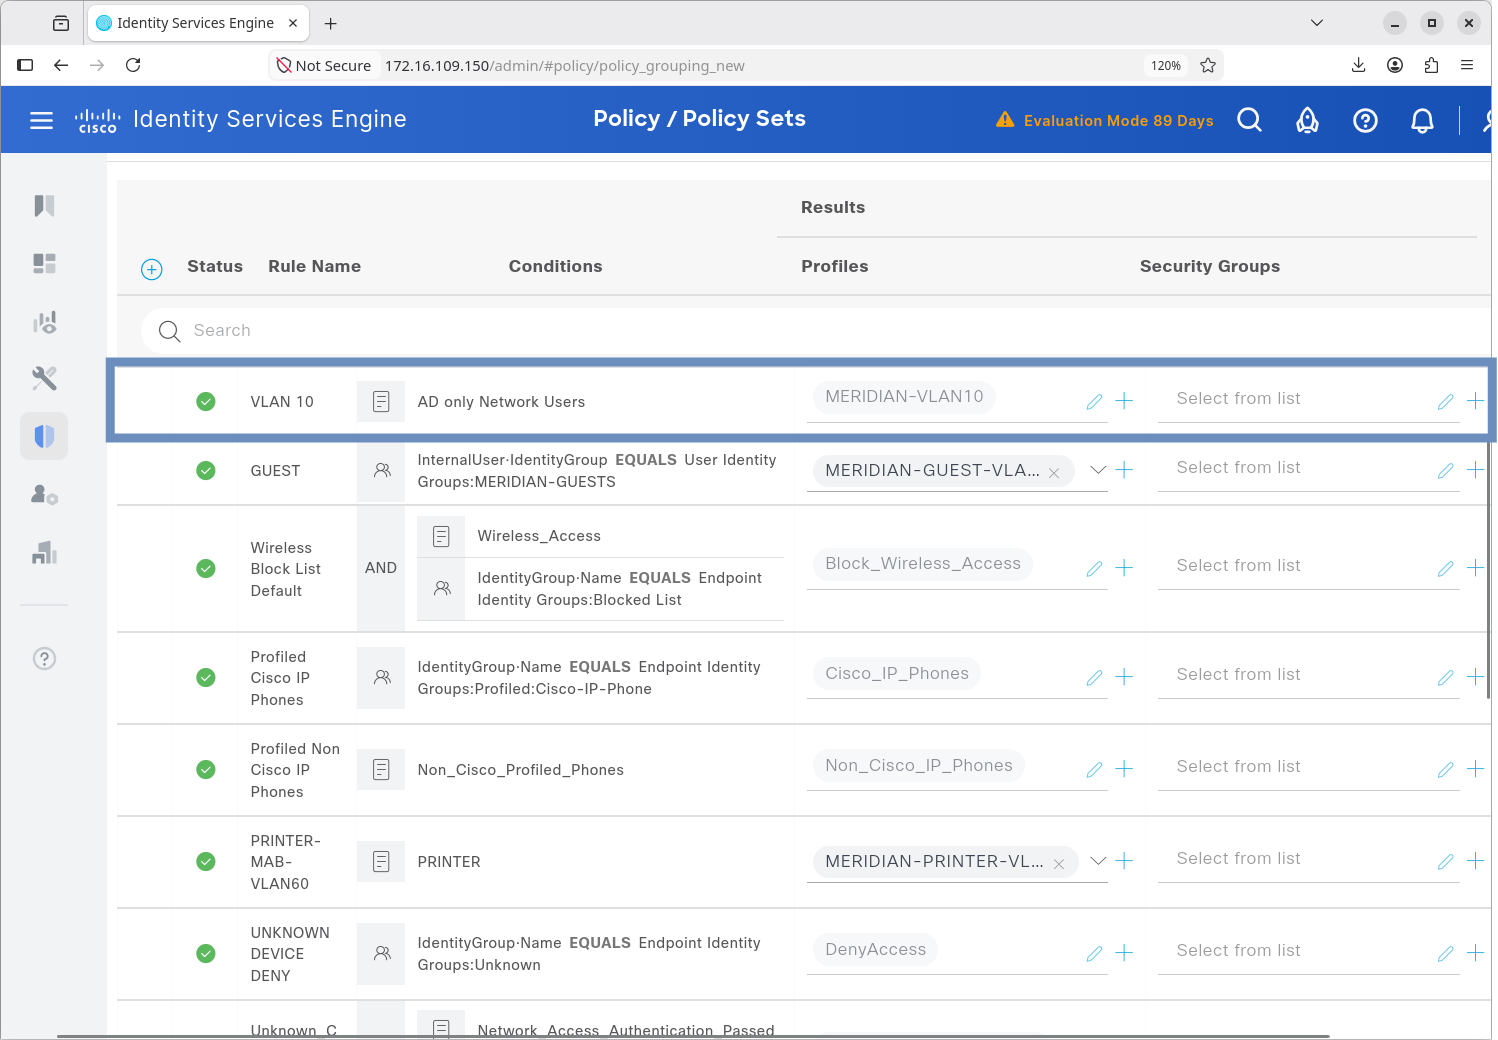
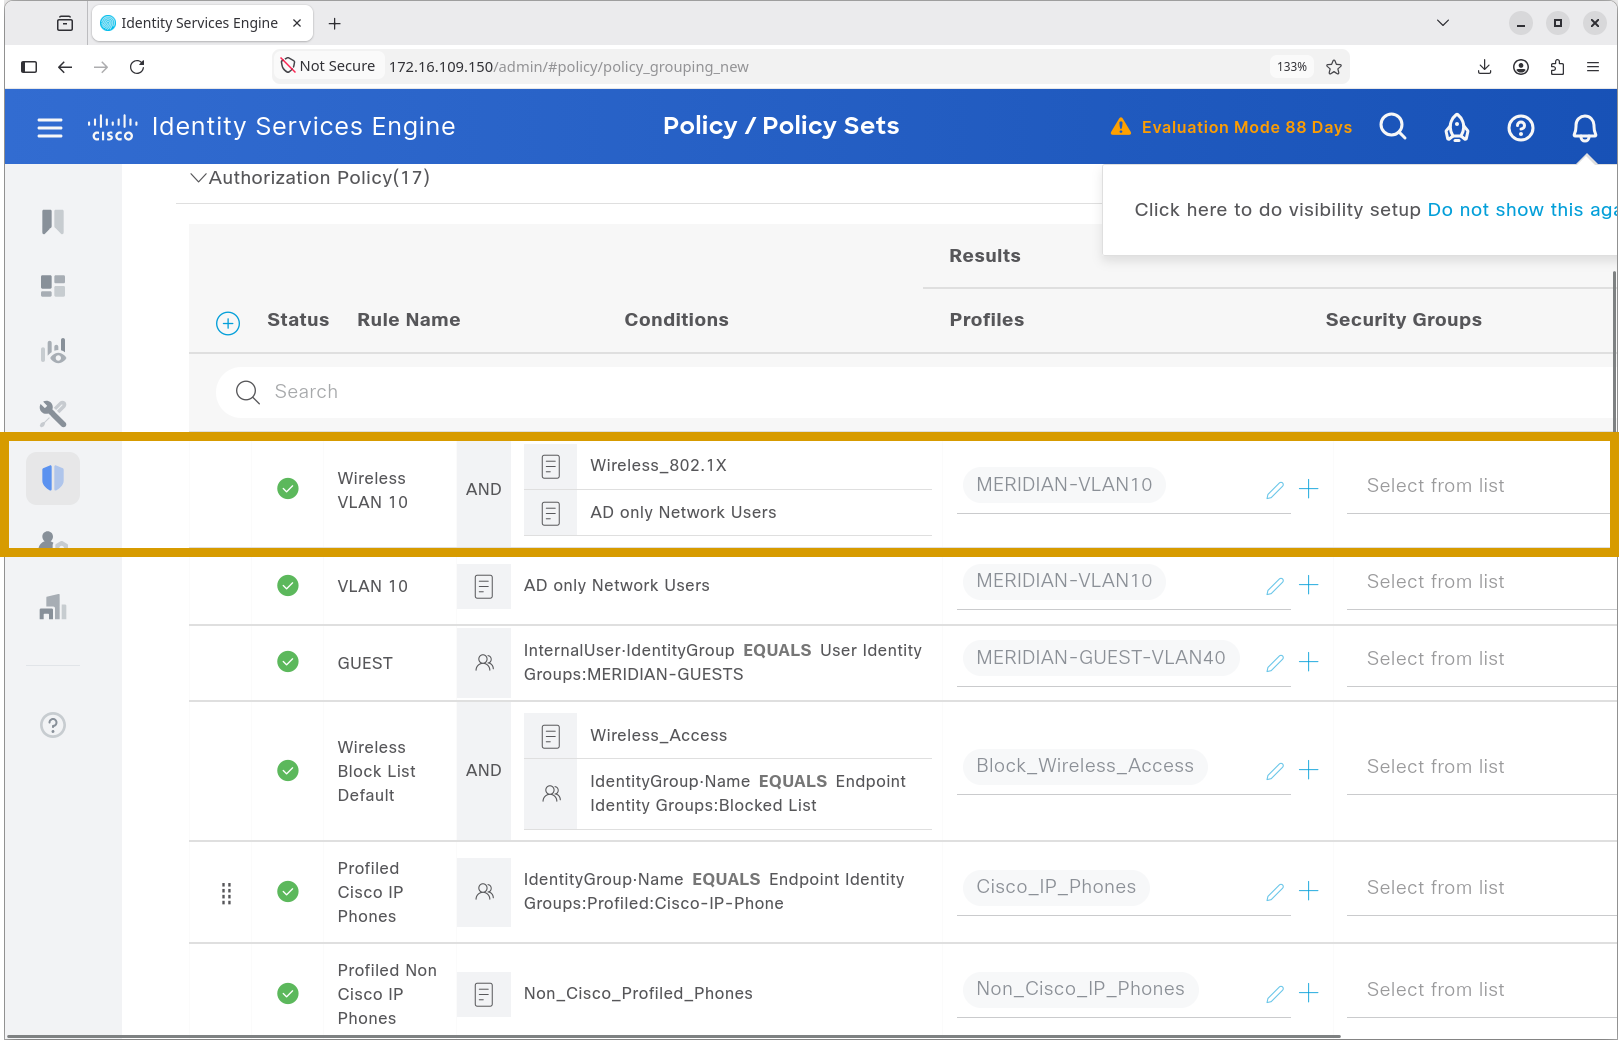
“README”

diff --git a/Meraki/configuration.md b/Meraki/configuration.md
@@ -1,4 +1,4 @@
-# Meraki Wireless Lab — Configuration Reference
+# Meraki Wireless Lab — Configuration 
 
 ## 1. Scope
 
@@ -30,7 +30,7 @@ This is a configuration reference, not a full Dashboard configuration export. Un
 
 | Setting | Value |
 | :--- | :--- |
-| **SSID** | `Meridian-Corporate` |
+| **SSID** | `Meridian-Corporate-Meraki` |
 | **Security** | WPA2-Enterprise / 802.1X |
 | **Authentication** | External RADIUS |
 | **RADIUS server** | `172.16.109.150` |
@@ -74,7 +74,7 @@ https://github.com/user-attachments/assets/03e36f05-ce47-4136-941c-e6338bec11ff
 
 ![Meraki](screenshots/ssid-overview.png)
 
-**VLAN 10 IP address successfully assigned**
+**VLAN 10 IP address successfully associated**
 
 ![Meraki](screenshots/iphone-connected-corporate.png)
 
@@ -109,19 +109,23 @@ https://github.com/user-attachments/assets/dbd81db5-aa3e-489a-8814-2c49e5d13373
 
 ![Meraki](screenshots/guest-vlan-40-mapping.png)
 
-**Configuring splash page **
+**Configuring splash page**
 
 ![Meraki](screenshots/splash-page-config.png)
 
 **Guest beacons**
 
-![Meraki](screenshots/ssid-overview.png)
+![Meraki](screenshots/meraki-beacons.png)
 
 **Meridian-Guest-Meraki VLAN 40 IP address assigned**
 
 ![Meraki](screenshots/iphone-connected-to-guest.png)
 
 ![Meraki](screenshots/meraki-vlan-40-ip-iphone.png)
+
+**Captive Portal**
+
+![Meraki](screenshots/splash-page-iphone.png)
 
 **Clients**
 
@@ -133,7 +137,7 @@ https://github.com/user-attachments/assets/dbd81db5-aa3e-489a-8814-2c49e5d13373
 
 ---
 
-## 5. HQ-R1 Guest ACL Evidence
+## 5. HQ-R1 Guest ACL
 
 The screenshot `vlan-40-sh-acl.png` shows the following extended ACL on HQ-R1:
 
@@ -146,4 +150,12 @@ Extended IP access list GUEST-VLAN40-IN
  60 deny ip 10.10.40.0 0.0.0.255 192.168.0.0 0.0.255.255
  70 permit ip 10.10.40.0 0.0.0.255 any
 ```
-![Meraki](screenshots/ap-overview.png)
+
+---
+
+### ➡ What's Next?
+
+With the cloud-managed Meraki wireless network configured and validated, the next step is to explore centralized observability and monitoring for the entire infrastructure.
+
+Continue to the next major module to explore the Grafana implementation:
+- **[Grafana Observability](../Grafana/)** – Dashboard configuration, data sources, metrics visualization, and infrastructure monitoring.
